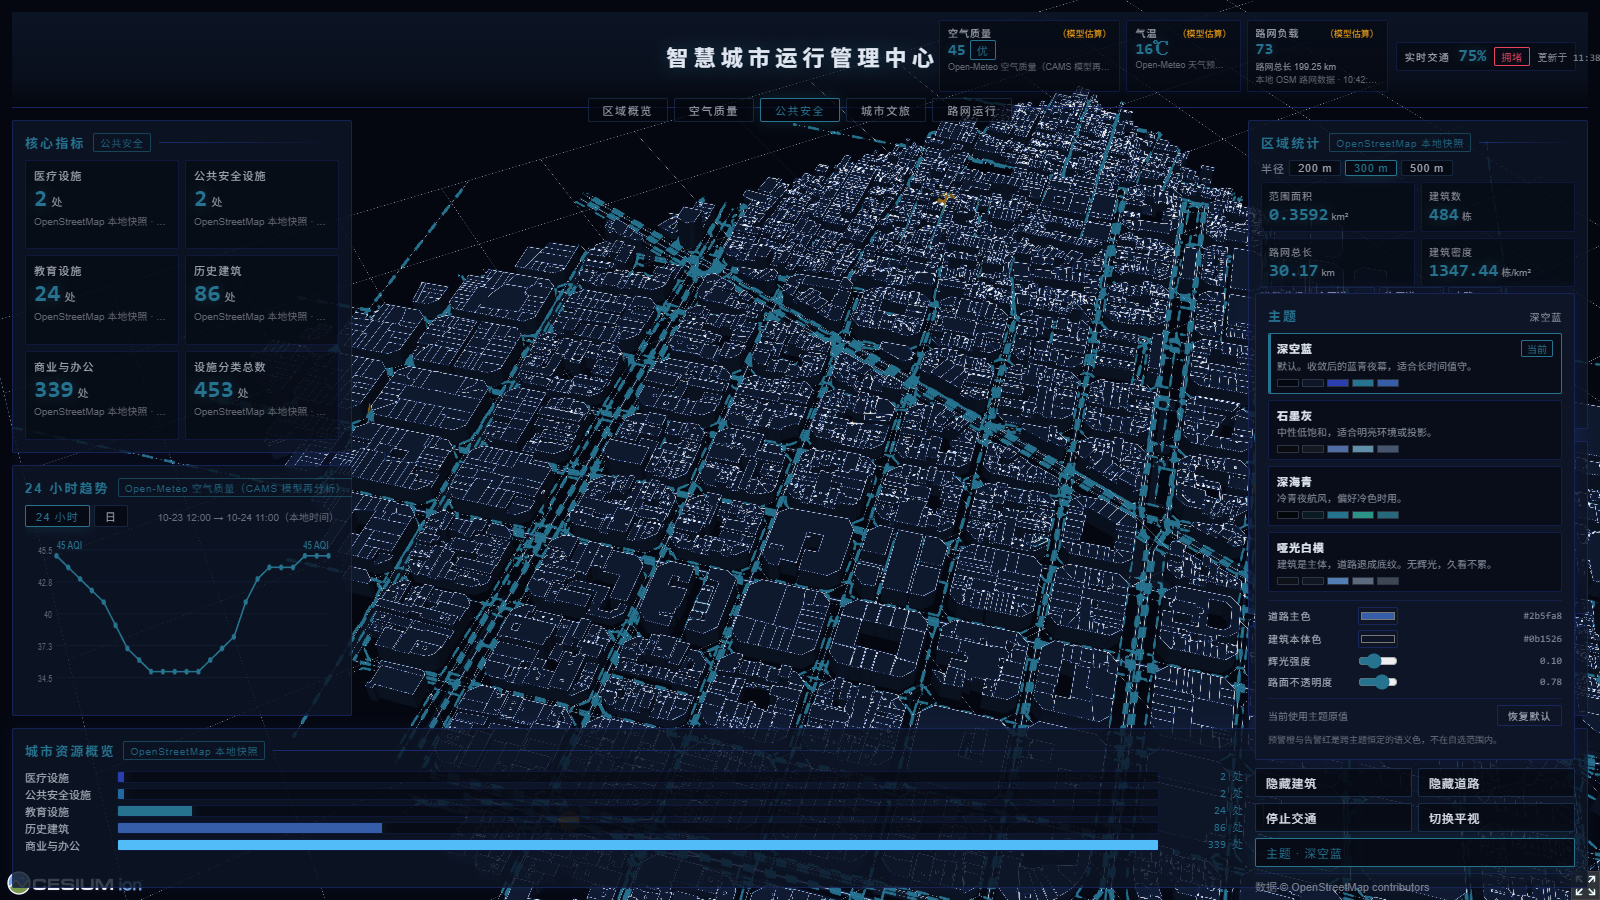
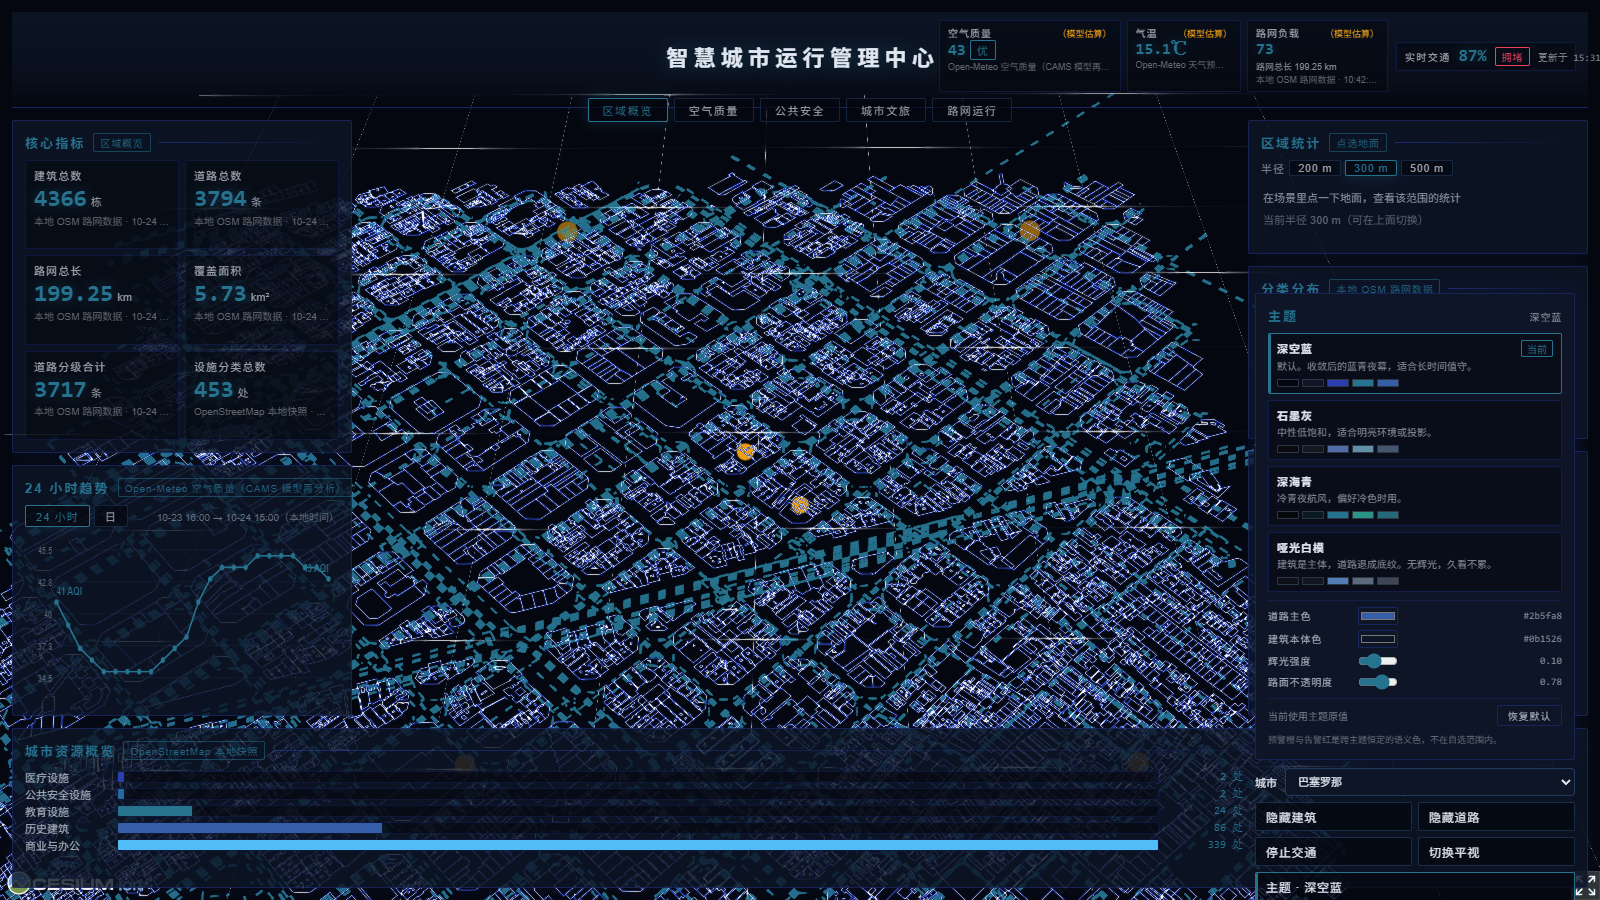
Plan T14: add Nuremberg as a third city and refresh the screenshots

diff --git a/Data-driven-modeling/src/__tests__/useCityData.test.ts b/Data-driven-modeling/src/__tests__/useCityData.test.ts
@@ -2,8 +2,19 @@ import { describe, it, expect, vi, beforeEach, afterEach } from 'vitest'
 import type { Mock } from 'vitest'
 import { defineComponent, h, isReactive } from 'vue'
 import { mount, flushPromises } from '@vue/test-utils'
-import { useCityData } from '@/composables/useCityData'
+import { useCityData, readCityFromLocation } from '@/composables/useCityData'
+import { CITY_OPTIONS } from '@/composables/cityRegistry'
+import { CITY_SCENES, cityConfig, setActiveCityScene } from '@/composables/useSceneStage'
 import { ApiError } from '@/api/client'
+
+/** 当前城心 / 平视落点的快照（换城会就地改 cityConfig）。 */
+function cityConfigSnapshot() {
+  return {
+    center: { ...cityConfig.center },
+    zoomLevel: cityConfig.zoomLevel,
+    streetPosition: cityConfig.streetPosition ? { ...cityConfig.streetPosition } : undefined,
+  }
+}
 
 const originalFetch = globalThis.fetch
 
@@ -217,5 +228,52 @@ describe('useCityData', () => {
     // 轮询失败时保留上一次的读数（拿旧值冒充新值是不行的，但也别清空）
     await refreshCityOverview()
     expect(cityOverview.value).not.toBeNull()
+  })
+})
+
+describe('多城', () => {
+  it('可选城市与场景参数一一对应', () => {
+    // 少一个场景参数 → 切到那座城时相机还用着上一座城的城心。
+    for (const option of CITY_OPTIONS) {
+      expect(CITY_SCENES[option.id]).toBeDefined()
+    }
+  })
+
+  it('城心是逐城不同的（不是通用常量）', () => {
+    const centers = CITY_OPTIONS.map(option => CITY_SCENES[option.id].center)
+    const unique = new Set(centers.map(center => `${center.lng},${center.lat}`))
+    expect(unique.size).toBe(CITY_OPTIONS.length)
+  })
+
+  it('setActiveCityScene 换城心、鸟瞰高度与平视落点', () => {
+    const before = { ...cityConfigSnapshot() }
+    expect(setActiveCityScene('nuernberg')).toBe(true)
+    const after = cityConfigSnapshot()
+    expect(after.center.lng).toBeCloseTo(CITY_SCENES.nuernberg.center.lng, 6)
+    expect(after.center.lat).toBeCloseTo(CITY_SCENES.nuernberg.center.lat, 6)
+    expect(after.streetPosition).toBeDefined()
+    // 换回去，别把后面的用例带偏
+    setActiveCityScene('barcelona')
+    expect(cityConfigSnapshot().center.lng).toBeCloseTo(before.center.lng, 6)
+  })
+
+  it('未知城市不改任何东西', () => {
+    const before = cityConfigSnapshot()
+    expect(setActiveCityScene('atlantis')).toBe(false)
+    expect(cityConfigSnapshot().center).toEqual(before.center)
+  })
+
+  it('地址栏里的 ?city= 决定初始城市，认不出的值回落到默认城市', () => {
+    const original = window.location.search
+    try {
+      window.history.replaceState({}, '', '/?city=nuernberg')
+      expect(readCityFromLocation()).toBe('nuernberg')
+      window.history.replaceState({}, '', '/?city=atlantis')
+      expect(readCityFromLocation()).toBe('barcelona')
+      window.history.replaceState({}, '', '/')
+      expect(readCityFromLocation()).toBe('barcelona')
+    } finally {
+      window.history.replaceState({}, '', original || '/')
+    }
   })
 })

diff --git a/Data-driven-modeling/src/composables/useSceneStage.ts b/Data-driven-modeling/src/composables/useSceneStage.ts
@@ -111,6 +111,13 @@ export const CITY_SCENES: Record<string, CityScene> = {
     zoomLevel: 1500,
     streetPosition: { lng: 9.1919, lat: 45.46355 },
   },
+  nuernberg: {
+    // 老城的市场广场（Hauptmarkt）：中世纪老城的开阔地。
+    center: { lng: 11.0770, lat: 49.4539 },
+    zoomLevel: 1500,
+    // 平视落点：教堂街（Kirchenplatz）一带，正北朝北能看到圣洛伦佐教堂与城墙塔楼。
+    streetPosition: { lng: 11.0768, lat: 49.4543 },
+  },
 }
 
 /** 城市配置参数。 */

diff --git a/Data-driven-modeling/src/composables/cityRegistry.ts b/Data-driven-modeling/src/composables/cityRegistry.ts
@@ -22,6 +22,7 @@ export interface CityOption {
 export const CITY_OPTIONS: CityOption[] = [
   { id: 'barcelona', label: '巴塞罗那' },
   { id: 'milano', label: '米兰' },
+  { id: 'nuernberg', label: '纽伦堡' },
 ]
 
 /** 城市 id 是否已知。 */

diff --git a/backend-python/city_data/cities.py b/backend-python/city_data/cities.py
@@ -81,6 +81,16 @@ CITIES: Dict[str, City] = {
         longitude=9.1919,
         timezone="Europe/Rome",
     ),
+    # 纽伦堡：中世纪老城（城墙 + 塔楼）。**高度标注覆盖最好的一座**
+    # （实测 59%，巴塞罗那 68%、米兰 45%），城墙塔楼在 OSM 里是独立建模的，
+    # 所以天际线有辨识度。
+    "nuernberg": City(
+        id="nuernberg",
+        name="纽伦堡",
+        latitude=49.4539,
+        longitude=11.0770,
+        timezone="Europe/Berlin",
+    ),
 }
 
 # 不传 city 参数时用它。

diff --git a/backend-python/scripts/fetch_osm_data.py b/backend-python/scripts/fetch_osm_data.py
@@ -82,6 +82,7 @@ DEFAULT_BBOX = (41.3900, 2.1580, 41.4050, 2.1780)
 CITY_BBOXES = {
     "barcelona": DEFAULT_BBOX,
     "milano": (45.4590, 9.1830, 45.4700, 9.1990),
+    "nuernberg": (49.4470, 11.0680, 49.4600, 11.0900),
 }
 DEFAULT_CITY = "barcelona"
 

diff --git a/README.md b/README.md
@@ -9,7 +9,8 @@
 中心城区的一小块 OpenStreetMap 建筑与道路，在浏览器里成了一座可以环视、可以查询、
 可以点进去的城市；四周的面板给出这片区域的运行指标与派生事件。
 场景是**巴塞罗那 Eixample 街区与圣家堂**一带约 1.7 km × 1.9 km 的范围。
-底栏右侧可以切到**米兰**（`?city=milano` 是固定链接，可以直接分享）。
+底栏右侧可以切到**米兰**（`?city=milano`）与**纽伦堡**（`?city=nuernberg`）——
+这两个链接就是那两座城的固定链接，可以直接分享。
 
 ## 它能做什么
 
@@ -133,7 +134,8 @@ cd backend-python      && ./.venv/Scripts/python.exe main.py
 | 建筑 / 道路 / 路网 / 设施分类 / 区域统计 | 本地 OpenStreetMap 抽取 | 无 | 静态快照 |
 
 - 场景是**西班牙巴塞罗那**的 Eixample 街区与圣家堂一带（约 1.7 km × 1.9 km）；
-  底栏右侧可切到**米兰**（大教堂与老城），`?city=milano` 是它的固定链接。
+  底栏右侧可切到**米兰**（大教堂与老城）与**纽伦堡**（中世纪老城与城墙），
+  `?city=milano` / `?city=nuernberg` 是它们的固定链接。
 - **两个远程源都是模式数据**，所以它们的指标都标「（模型估算）」。
 - AQI 是**按国标 GB/T 3095-2012 的分段表自己换算**的（24 小时滑动平均，O3 取 8 小时），
   **不是任何机构发布的 AQI** —— 换算口径写在 `backend-python/city_data/aqi.py` 里。

diff --git a/backend-python/scripts/README.md b/backend-python/scripts/README.md
@@ -36,6 +36,7 @@
 |---|---|---|
 | `barcelona`（默认） | `41.3900,2.1580,41.4050,2.1780` | 巴塞罗那 Eixample 街区与圣家堂一带，约 1.7 km × 1.9 km |
 | `milano` | `45.4590,9.1830,45.4700,9.1990` | 米兰大教堂与老城一带，约 1.2 km × 1.1 km |
+| `nuernberg` | `49.4470,11.0680,49.4600,11.0900` | 纽伦堡中世纪老城与城墙一带，约 1.4 km × 1.4 km |
 
 `--bbox` 可以覆盖 `--city` 给的范围。
 
@@ -120,7 +121,7 @@ OVERPASS_ENDPOINTS="https://a.example/api/interpreter,https://b.example/api/inte
 | 参数 | 默认值 | 说明 |
 |---|---|---|
 | `--endpoint URL` | 无 | 只用这一个 Overpass 端点（不给就按上面的顺序逐个试） |
-| `--city barcelona\|milano` | `barcelona` | 选哪座城市的默认取景范围（`--bbox` 可覆盖） |
+| `--city barcelona\|milano\|nuernberg` | `barcelona` | 选哪座城市的默认取景范围（`--bbox` 可覆盖） |
 | `--bbox s,w,n,e` | 按 `--city` 给的范围 | 抓取范围，顺序是 `south,west,north,east` |
 | `--out-dir DIR` | `backend-python/geojson` | GeoJSON 输出目录，不存在会自动创建 |
 | `--only buildings\|roads` | 两者都抓 | 只抓其中一类数据 |

diff --git a/backend-python/README.md b/backend-python/README.md
@@ -140,7 +140,7 @@ CSP_REPORT_ONLY=
 | `geojson/<城市 id>/buildings.geojson` | 建筑面（`Polygon` / `MultiPolygon`） |
 | `geojson/<城市 id>/roads.geojson` | 道路（`LineString` / `Polygon`） |
 
-当前有 **巴塞罗那（`barcelona`）** 与 **米兰（`milano`）** 两座城。
+当前有三座城：**巴塞罗那（`barcelona`）**、**米兰（`milano`）**、**纽伦堡（`nuernberg`）**。
 城市 id 与 `city_data/cities.py` 的表一一对应。
 
 全新 clone 之后用抓取脚本重新生成（只需要 Python 标准库）：
@@ -149,6 +149,7 @@ CSP_REPORT_ONLY=
 cd backend-python
 ./.venv/Scripts/python.exe scripts/fetch_osm_data.py --city barcelona --out-dir geojson/barcelona
 ./.venv/Scripts/python.exe scripts/fetch_osm_data.py --city milano    --out-dir geojson/milano
+./.venv/Scripts/python.exe scripts/fetch_osm_data.py --city nuernberg --out-dir geojson/nuernberg
 ```
 
 `--city` 给出**每座城市各自的默认取景范围**（取景范围是逐城的事实：密度差很多）。
